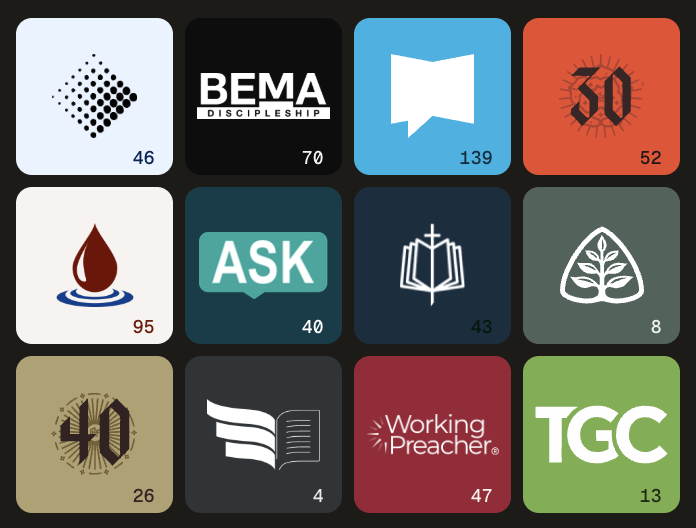
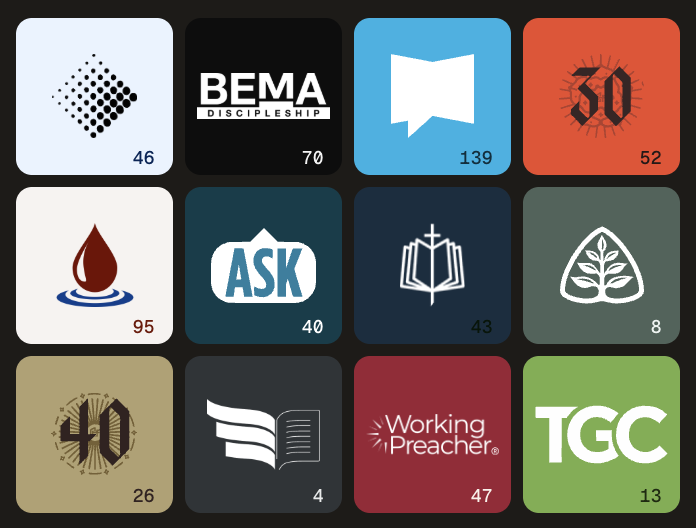
fix: the ASK bubble was their other treatment, upside down
The maintainer read it right. Their cover art — the artwork a listener knows
this show by — draws the bubble WHITE with teal type and the tail pointing UP.
What we shipped was cut from their horizontal lockup: teal bubble, white type,
tail pointing DOWN. Both are theirs, so this was never a corrupted crop; a
fresh cut from the lockup comes out pixel-identical to the file we had. It was
simply the wrong one of their two treatments, and inverted against the one
everybody recognises.

So the mark is cut from the cover instead. The field is flooded in from the
border rather than keyed by colour, because the letters sit close in value to
the field behind them and a colour key punches holes in them. The remaining
anti-aliased seam — the drop shadow's own edge — is dropped by saturation:
the bubble is white and the type is saturated teal, so a desaturated mid grey
is neither.

AND TRACED, at the maintainer's suggestion, because the extraction leaves a
flood-filled edge and this shape is a rounded rectangle, a triangular tail and
three letters, which is exactly what a curve fits cleanly. Two separations
traced apart — silhouette and letters — so the type stays crisp instead of
becoming the seam between two traced regions. Both inks measured off their own
artwork: #FFFFFF and #2080A0. Nothing redrawn.

6.2KB of vector replacing 7.1KB of raster, and it is now resolution-free: the
same file serves the 42px shelf cell, the 48px card and any display.

Changed region(s): [[0.2716, 0.4242, 0.4828, 0.5758]]

diff --git a/src/renderer/styles.css b/src/renderer/styles.css
@@ -22643,8 +22643,24 @@ button.lang-phrase-diagram-node:focus-visible,
      softened by it: WE drew the horizontal reconstruction, Premier did not
      supply it, and the inventory says so. Premier's own colours survive the
      crop — the bubble is their teal and their white, on their blue plate. */
-  --resource-symbol: url("./assets/brand/ask-nt-wright-bubble-white.png");
-  --resource-symbol-ratio: 1.924;
+  /* ── THE BUBBLE, FROM THE COVER AND VECTORISED · 2026-08-02 ─────────────
+     What shipped was cut from their horizontal lockup: a TEAL bubble with
+     white type and the tail pointing DOWN. Their cover art — the artwork every
+     listener actually knows this show by — draws the same bubble the other way
+     up and the other way round: a WHITE bubble with teal type, tail pointing
+     UP. Both are theirs, so this was never a corrupted crop, and a fresh cut
+     from the lockup comes out pixel-identical to what we shipped. It was
+     simply the wrong one of their two treatments.
+
+     So the mark is now cut from the cover, and TRACED rather than left raster:
+     the extraction leaves a flood-filled edge, and this shape is a rounded
+     rectangle, a triangular tail and three letters — exactly what a curve fits
+     cleanly. Two separations traced apart, the silhouette and the letters, so
+     the type stays crisp instead of being the seam between two traced regions.
+     Both inks are measured off their own artwork: #FFFFFF and #2080A0.
+     Nothing redrawn. Recorded in docs/trusted-resource-brand-inventory. */
+  --resource-symbol: url("./assets/brand/ask-nt-wright-bubble.svg");
+  --resource-symbol-ratio: 1.404;
   /* Their published red, same file, same pass: #D8183C was a sample and
      #E51F3F is the value Premier's own artwork carries. White on it is
      4.57:1, so the pill keeps its ink. */

diff --git a/tasks/D13-quire-magic-tour-lab.md b/tasks/D13-quire-magic-tour-lab.md
@@ -1,0 +1,86 @@
+# D13 — Quire `/magic` Tour Lab hardening
+
+## Objective
+
+Promote the isolated Quire `/magic` Tour Lab from a manually proven visual experiment to a replayable, measurable, Luna-only functional system. Keep the work under `lab/tour-lab/`; this task does not authorize a port into the main Scripture app.
+
+## Human decisions
+
+- Both listening-tour search and per-clip visual direction use `openai/gpt-5.6-luna` through OpenRouter.
+- Sol is not used for `/magic` development or visual testing.
+- Preserve the existing division of responsibility: the model selects semantic directions and transcript cues; house code owns markup, coordinates, layout, collision handling, timing, and animation.
+- Model-backed fixtures may be captured with Luna. Once captured, layout, seeking, responsive, motion, and accessibility verification must replay locally without another paid call.
+
+## Scope
+
+- `lab/tour-lab/model-client.mjs`
+- `lab/tour-lab/server.mjs`
+- `lab/tour-lab/magic.js`, `magic.html`, and `magic.css`
+- New Tour Lab-only contract, evidence, replay, and test files
+- `STATUS.md` delivery evidence
+
+Out of scope:
+
+- Main renderer, Electron, Substrate, source packages, or app navigation
+- Changing the frozen Scripture-Native Knowledge Library specification
+- Autonomous writes to authored library data
+
+## Required gates
+
+### Gate 1 — one explicit Luna route
+
+- Search, whispers, form selection, and visual direction name the same Luna/OpenRouter role contract.
+- `/api/direct` cannot silently fall back to Sol or accept an accidental Sol test override.
+- Returned evidence identifies requested and resolved model, provider, endpoint style, and reasoning effort without exposing credentials.
+
+### Gate 2 — one paid call per logical direction
+
+- Director cache identity includes model, schema version, record id, and clip bounds.
+- In-flight requests are cached immediately, so prefetch and Play cannot buy the same direction twice.
+- Starting another tour aborts or invalidates all earlier search, whisper, form, and director results.
+- Director prefetch uses explicit bounded concurrency.
+
+### Gate 3 — versioned direction and evidence
+
+- Durable director output carries a schema version.
+- Every model pass records role, latency, input/output/reasoning/cached tokens, provider cost, finish reason, resolved model, and validation outcome.
+- Each completed direction records total wall time, passes, cost, normalized scene counts, and rejection/drop information.
+- Evidence is append-only and contains no key or secret.
+
+### Gate 4 — final scene/timeline contract
+
+- One final normalization runs after every repair and gap-fill pass.
+- Scene and artifact caps are enforced on the combined output, not only the first model response.
+- Aside economy is re-applied after gap filling.
+- Every event is finite and clamped to its owning scene and clip.
+- House-invented times are deconflicted; cue- and word-anchored times retain transcript truth.
+- The replay validator refuses unsupported newer schema versions.
+
+### Gate 5 — cost-free replay
+
+- A versioned fixture format can carry the tour, form, whispers, and per-clip director results.
+- `/magic` can load a named local fixture without invoking `/api/tour`, `/api/whispers`, `/api/form`, or model-backed `/api/direct`.
+- Contract tests prove fixture refusal, normalization, cache identity, role routing, and evidence redaction.
+
+### Gate 6 — runtime hardening
+
+- Seeking reconstructs the correct scene without replaying spent transient highlights.
+- Resize and orientation changes redraw measured loom geometry.
+- Repeated displayed words can be anchored deterministically rather than always selecting the first occurrence.
+- Reduced motion covers both transitions and keyframe animations.
+- The theater slider exposes current/min/max values and keyboard semantics.
+- Mobile and desktop layouts avoid clipped labels, fixed-control overlap, and stale routes.
+
+## Acceptance evidence
+
+- Focused Node contract tests pass without network access.
+- A saved Luna-generated direction passes the replay validator.
+- Replay is visibly checked at mobile and desktop widths, light and dark themes, including seek-back, seek-forward, and resize.
+- Browser console contains no errors during the replay matrix.
+- No Sol request is made, and no test requires an OpenRouter call after fixture capture.
+- `git diff` contains no main-app port and preserves unrelated user changes.
+
+## Status
+
+In progress.
+

diff --git a/docs/trusted-resource-brand-inventory.md b/docs/trusted-resource-brand-inventory.md
@@ -370,6 +370,7 @@ and it is a crop, and that is said here and in each file's own header.
 | `bibleproject-flag-white.svg` | `bibleproject-lockup-white.svg` (their own vector) | Their lockup is one flag path followed by the wordmark's letter paths. This is that first path **byte for byte**, in a viewBox read off the path data: 0,0 to 47.5,48. | 0.99 |
 | `etb-tile-colour.svg` | `etb-main-logo-colour.svg` (their own vector) | The wordmark groups and the ® are removed from the export; the frame is the **tile path's own square**, 0,0 to 358.73,358.73 once its translate is applied. Nothing redrawn, no colour changed. | 1.00 |
 | `etb-book-colour.svg` | `etb-tile-colour.svg` | A second crop, and it holds **the same drawing** — the tile still paints — with the viewBox pulled to the ink's bounds, 53.25,81.97 to 305.5,318.1, measured off a render. Needed because the tile's fill is `rgb(254,209,65)` and the plate it sits on is `#FED141`: the tile is *invisible on its own surface*, so the mark a reader sees is the book, and in the tile's frame that book drew at 21px where every other symbol drew at 28–36. | 1.068 |
+| `ask-nt-wright-bubble.svg` | Their **cover art**, not their lockup | The bubble lifted out of the show's own 3000px cover by flooding the field in from the border — a colour key would have punched holes in the letters, which sit close in value to the field behind them — then traced to two paths, the silhouette and the type, so the letters stay crisp rather than becoming the seam between two traced regions. Both inks measured off the artwork: `#FFFFFF` and `#2080A0`. Nothing redrawn. 1.404. **Replaces `ask-nt-wright-bubble-white.png`**, which was cut from their horizontal lockup and is their OTHER treatment of the same mark: teal bubble, white type, tail pointing DOWN. That crop was never corrupted — a fresh cut from the lockup is pixel-identical to it — it was the wrong one of their two, because the cover is the artwork a listener knows the show by, and on the cover the bubble is white with teal type and the tail points UP. |
 | `spoken-gospel-emblem-white.png` | `spoken-gospel-lockup-white.png` | Cut at the lockup's **own 29px gutter** between emblem and wordmark, then trimmed to the emblem's alpha bounds. 63×82. This is the crop that most earns the pass: the lockup is 7.671 wide, the widest artwork in the app, and its emblem drew at about four pixels inside it. | 0.768 |
 | `ask-nt-wright-bubble-white.png` | `ask-nt-wright-horizontal-white.png` | Cut at the lockup's own 17px gutter, trimmed to alpha bounds. 127×66. **The accuracy caveat carries over and is not softened by the crop**: WE drew the horizontal reconstruction, Premier did not supply it. Premier's official stacked vector stays staged. | 1.924 |
 | `listeners-commentary-diamond-black.png` | `listeners-commentary-lockup-black.png` (supplied by the maintainer) | The halftone diamond, trimmed to alpha bounds at 207×205. **Not new** — it was cut on 2026-07-31 and staged at `pending/`; what is new is that the shelf has a use for it. Promoted. | 1.010 |
